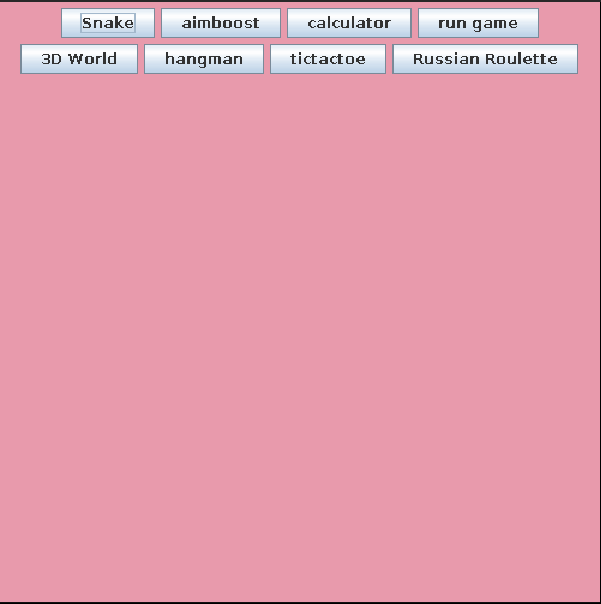
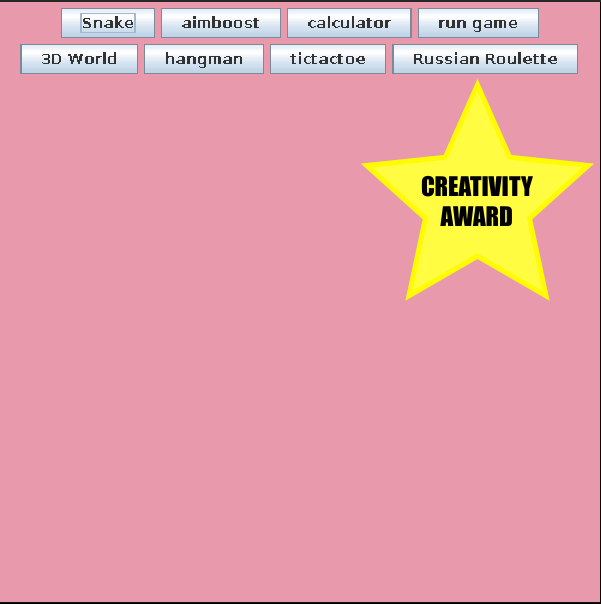
added all awards to image files in all periods + renamed faulty files

Changed region(s): [[0.599, 0.1192, 0.9884, 0.5066]]

diff --git a/data_p4.py b/data_p4.py
@@ -17,7 +17,7 @@ def setup():
                                  "GodlyGoats and "
                                  "Albertpani Compani. We have a lot of merch you can buy and other information.")
 
-    p4_hangman = model.Project("Music Website", url_for('p4_hangman_bp.index'), "/static/img/p4hangman.png",
+    p4_hangman = model.Project("Music Website", url_for('p4_hangman_bp.index'), "/static/img/p4_hangman.png",
                                "P4 Hangman",
                                ["Charlie Zhu", "Rohan Nallapati", "Rivan Nayak", "Sarah Xie", "Noah Pidding"],
                                "This website includes a portfolio of our projects we worked on this trimester as well "
@@ -39,7 +39,7 @@ def setup():
                                  "CoderJoes is a virtual store where you can find recipes, ideas, and descriptions, "
                                  "as well as a group portfolio of our work over the trimester.")
 
-    p4_monkeymath = model.Project("Games Website", url_for('p4_monkeymath_bp.home'), "/static/img/History of Games ("
+    p4_monkeymath = model.Project("Games Website", url_for('p4_monkeymath_bp.home'), "/static/img/p4_gamingsite.png ("
                                                                                       "1).png", "P4 MonkeyMath",
                                   ["Nathaniel Lee", "Ryan Luo", "Aiden Tung", "Luke Manning", "Jaideep Bollu"],
                                   "This project showcases the history of certain games and their impact on society. "

diff --git a/data_p2.py b/data_p2.py
@@ -10,7 +10,7 @@ def setup():
                             ["John Mortensen", "Classroom of 40"],
                             "Visit a VANTA birds experience and see how it is made.")'''
 
-    cyphercrypto = model.Project("CypherCrypto", url_for('cyphercrypto_bp.index'), "/static/img/bgdeer.jpg",
+    cyphercrypto = model.Project("CypherCrypto", url_for('cyphercrypto_bp.index'), "/static/img/p2_cyphercrypto.jpg",
                                  "Cryptomaniacs",
                                  ["Nihar Marar", "Tyler Cloutier", "Dylan Roman", "Anthony Giustiniano", "Cherry Ding"],
                                  "We use Ciphers and encrypt/decrypt messages.")

diff --git a/data_p5.py b/data_p5.py
@@ -17,7 +17,7 @@ def setup():
                                 "This website is used for everything calculus and to spread our information about it!")
 
     p5_chessGame = model.Project("Chess Game", url_for('p5_chessGame_bp.index'),
-                                 "/static/img/p5chessGame.jpg", "Chess Game",
+                                 "/static/img/p5_chessGame.jpg", "Chess Game",
                                  ["Colin Szeto", "Devam Shrivastava", "Shekar Krishnamoorthy", "Kyle Myint",
                                   "David Kim"],
                                  "Vist Chess Game to play through our chess game!")
